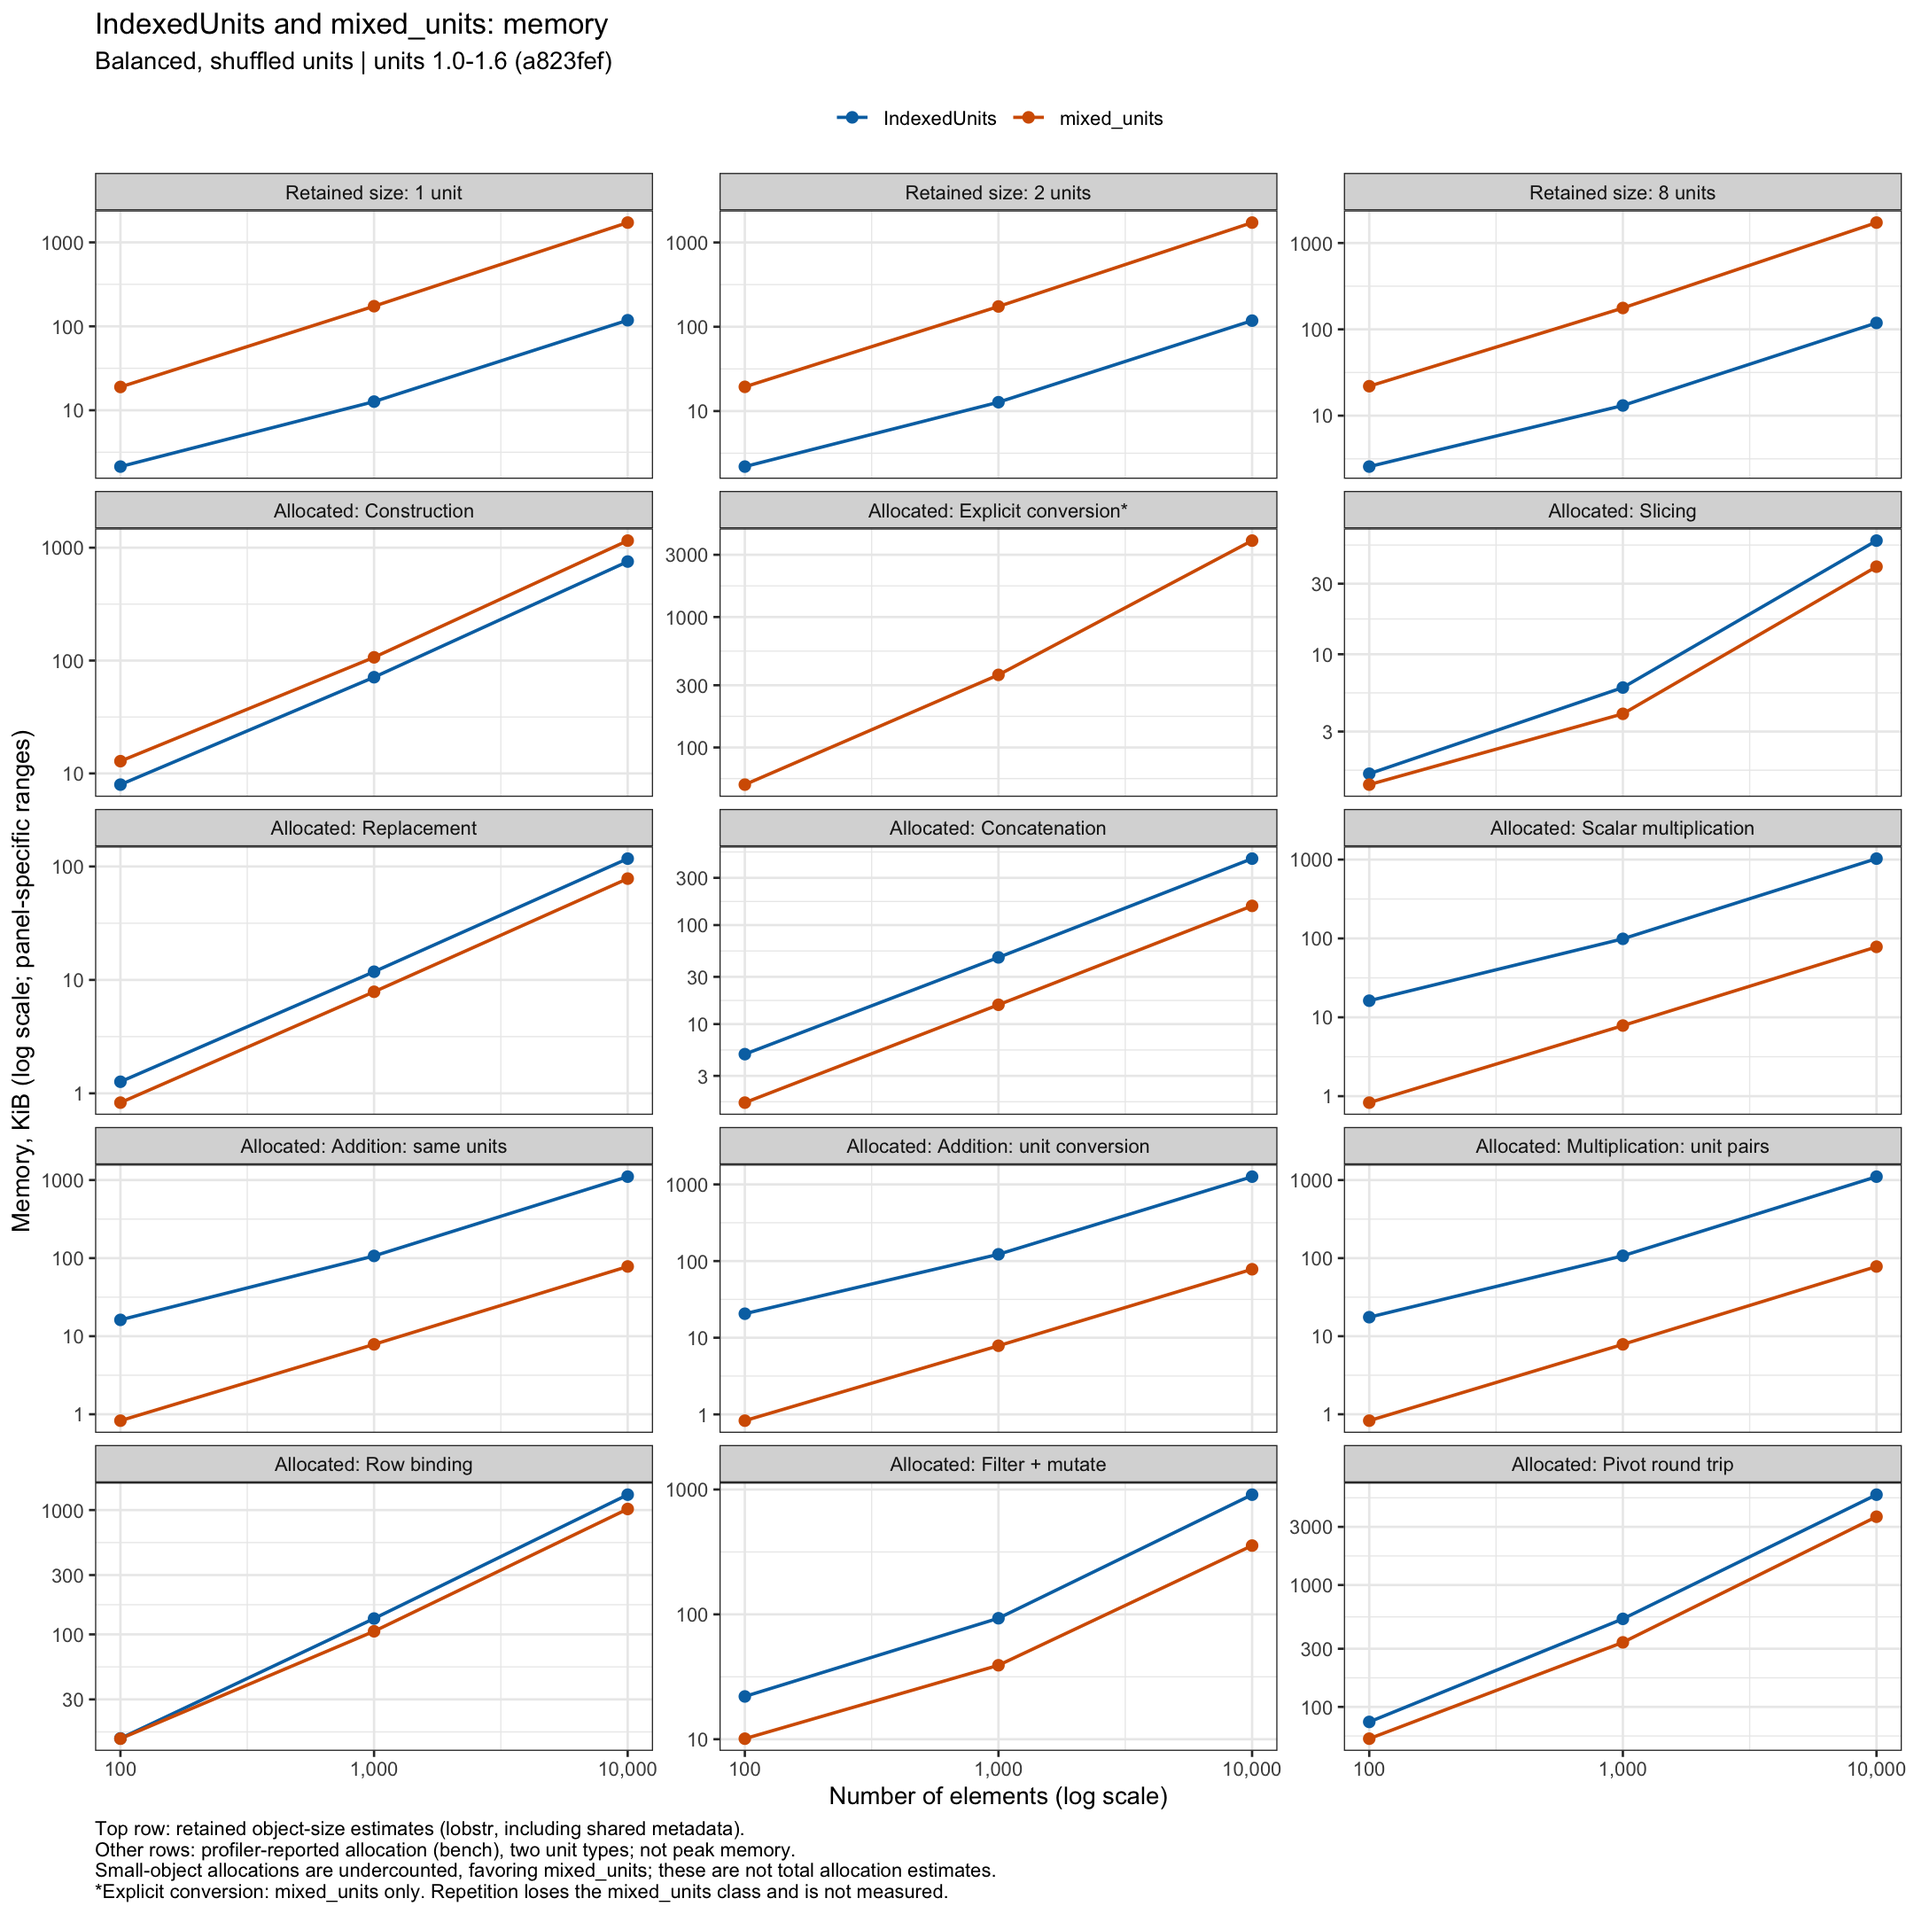
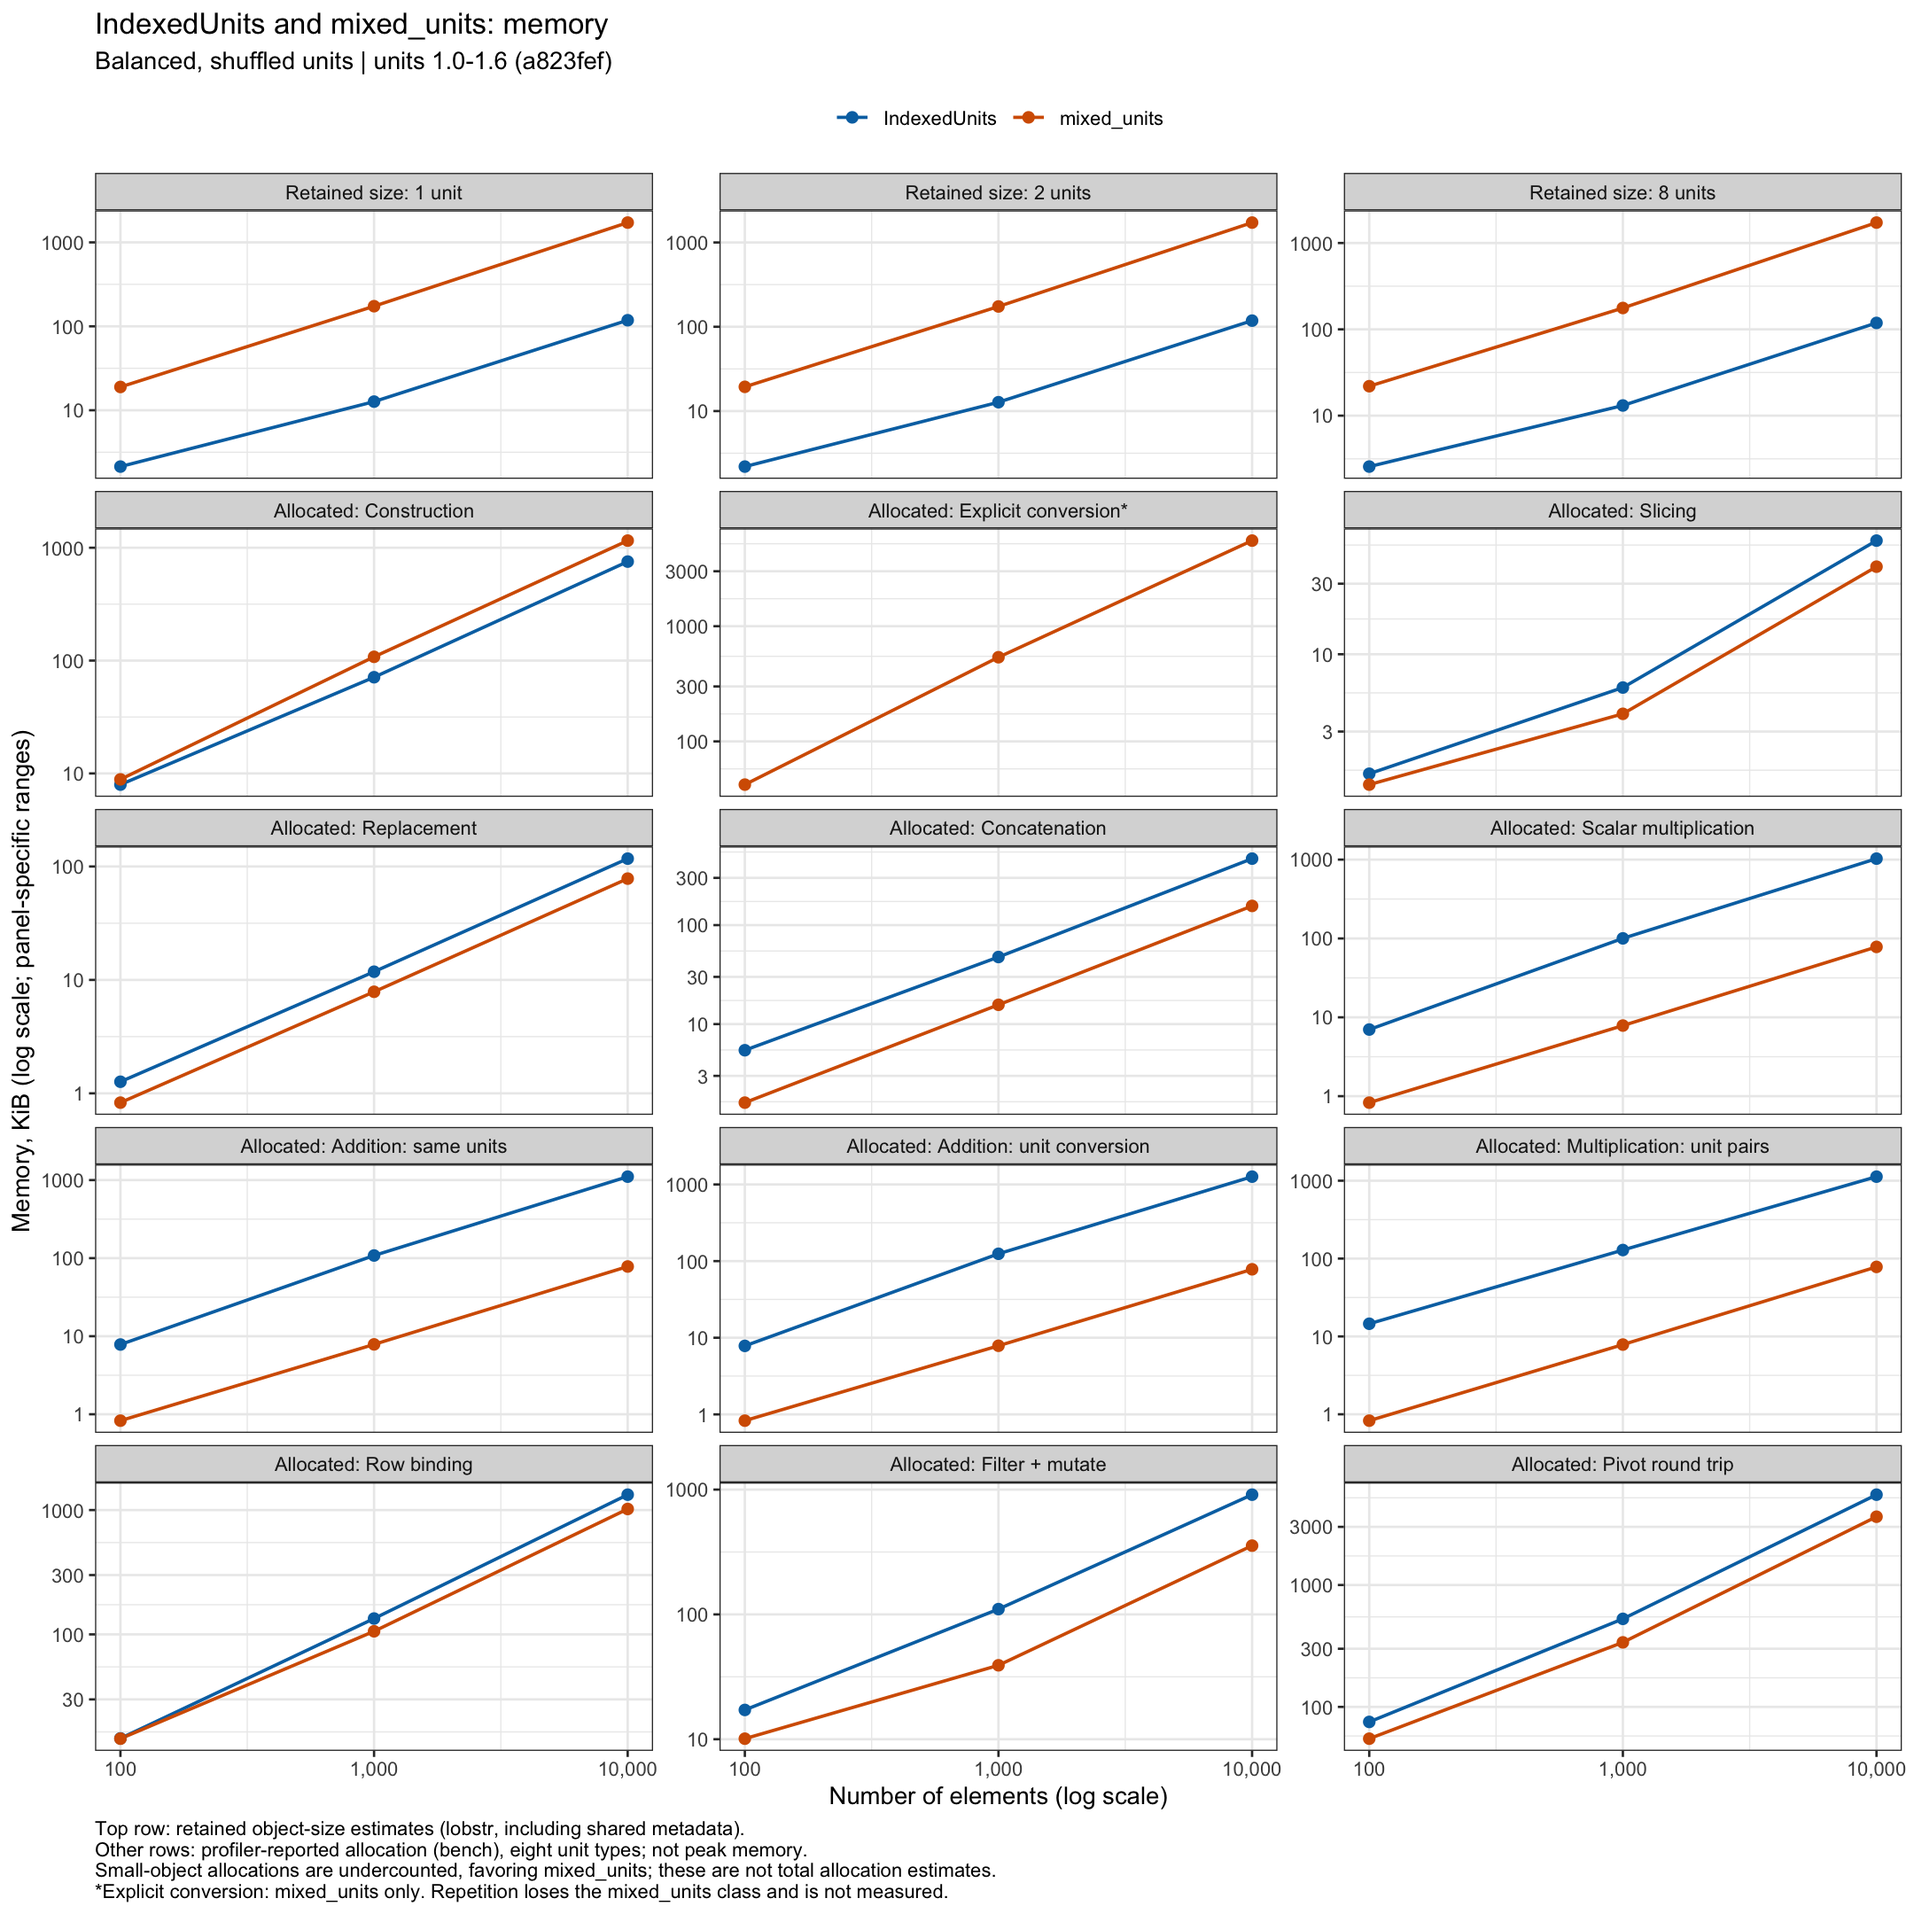
update benchmark default case to 8 different units and reformulate benchmark README

diff --git a/inst/benchmark/README.md b/inst/benchmark/README.md
@@ -1,7 +1,7 @@
 # IndexedUnits vs mixed_units
 
-This benchmark compares the current prototype with `units::mixed_units`.
-The current run uses GitHub `units` **1.0-1.6**, revision
+This benchmark compares `IndexedUnits` with `units::mixed_units`
+from GitHub `units` **1.0-1.6**, revision
 [`a823fef`](https://github.com/r-quantities/units/commit/a823fef46d92ee4e1b2e2fa28ddf4c19d67cefb6), pinned in `renv.lock`.
 
 Cases investigated:
@@ -15,16 +15,30 @@ Cases investigated:
 - **Pipelines:** row binding, filtering with arithmetic in `mutate()`, and long/wide pivot round trips.
 - **Missing values:** a sparse pivot followed by printing, checked separately from timings.
 
-Current findings (10,000 elements, two balanced unit types):
+Findings (10,000 elements, eight balanced/shuffled unit types):
 
-- **Much smaller storage and faster arithmetic:** about 15× less retained memory; addition with conversion was about 800× faster and scalar multiplication about 970× faster.
-- **Factor proxies recover pipeline performance:** compared with the previous character proxy, row binding fell from 1.17 to 0.45 ms and pivots from 6.40 to 3.86 ms. Both are faster than `mixed_units` again (0.72 and 5.01 ms). Slicing and concatenation remain slower.
-- **Less reported allocation:** row binding fell from 3.81 to 1.36 MB and pivots from 12.19 to 5.64 MB. These are profiler-reported allocations, not total memory use; small-object allocations are undercounted, favoring `mixed_units`.
-- **Some behavior differs:** repetition still loses the `mixed_units` class and a sparse pivot fails when printed. These are not counted as speedups.
+- **Compact storage and faster arithmetic:** `IndexedUnits` uses about 15× less retained memory than `mixed_units`; addition with conversion is about 318× faster and scalar multiplication about 400× faster.
+- **Unit diversity matters:** `IndexedUnits` multiplication is about 41× faster than `mixed_units` with 64 unit pairs, compared with 399× faster with four pairs in the two-type case.
+- **Pipelines:** `IndexedUnits` row binding takes 0.43 ms versus 0.72 ms for `mixed_units`; pivots take 3.87 ms versus 5.84 ms. Concatenation is slower for `IndexedUnits`; slicing and replacement are close in absolute time.
+- **Memory measurement:** `IndexedUnits` row binding and pivots report 1.36 MB and 5.64 MB of allocations, versus 1.04 MB and 3.72 MB for `mixed_units`. Small-object allocations are undercounted, favoring `mixed_units`; these are not total memory-use estimates.
+- **Some behavior differs:** `mixed_units` loses its class under repetition, and its sparse pivot result fails when printed. `IndexedUnits` supports both cases. These are not counted as speedups.
 
-Results are exploratory medians of 3–5 warm-process iterations, including garbage collection. Values and unit labels are checked before timing. Fixtures are prepared outside timings except for construction; retained memory and temporary allocations are measured separately. This run uses integer IDs with factor levels during reshaping, retaining dictionaries for nonempty unknown-unit buffers and internal prototypes. Small timing differences should be treated cautiously given the few iterations.
+Two-type comparison at the same length (speedup = `mixed_units` time / `IndexedUnits` time):
 
-The runtime figure shows the two-unit, balanced/shuffled cases. The memory figure's top row shows retained object size for 1, 2, and 8 unit types; the remaining panels show profiler-reported allocations per operation with two unit types. These allocations are not peak memory. Each panel has its own logarithmic scale. The full grid is in the raw results.
+| Operation | Eight types (main) | Two types |
+|---|---:|---:|
+| Construction | 30× | 65× |
+| Scalar multiplication | 400× | 974× |
+| Addition with conversion | 318× | 798× |
+| Multiplication across unit pairs | 41× | 399× |
+| Row binding | 1.7× | 1.6× |
+| Pivot round trip | 1.5× | 1.3× |
+
+`IndexedUnits` retained storage is about 15× smaller than `mixed_units` in both cases. Eight types represent the intended use case of many values sharing relatively few units.
+
+Results are exploratory medians of 3–5 warm-process iterations, including garbage collection. Values and unit labels are checked before timing. Fixtures are prepared outside timings except for construction; retained memory and temporary allocations are measured separately. Small timing differences should be treated cautiously given the few iterations.
+
+The runtime figure shows the eight-unit, balanced/shuffled cases. The memory figure's top row shows retained object size for 1, 2, and 8 unit types; the remaining panels show profiler-reported allocations per operation with eight unit types. These allocations are not peak memory. Each panel has its own logarithmic scale. The full grid is in the raw results.
 
 ![Runtime comparison, including explicit unit conversion](results/runtime.png)
 

diff --git a/README.md b/README.md
@@ -17,10 +17,10 @@ x * 2
 data.frame(value = x)
 ```
 
-Against GitHub `units` 1.0-1.6, the benchmark case with 10,000 elements and two
+Against GitHub `units` 1.0-1.6, the benchmark case with 10,000 elements and eight
 unit types used about **15× less retained memory** and showed large arithmetic
 speedups. Factor proxies also make row binding and pivots faster in this case;
-slicing and concatenation remain slower. Allocation measurements undercount small
+concatenation remains slower. Allocation measurements undercount small
 objects and should not be interpreted as total memory use. See the
 [benchmark summary and figures](inst/benchmark/README.md) for checked results
 and measurement limitations.
